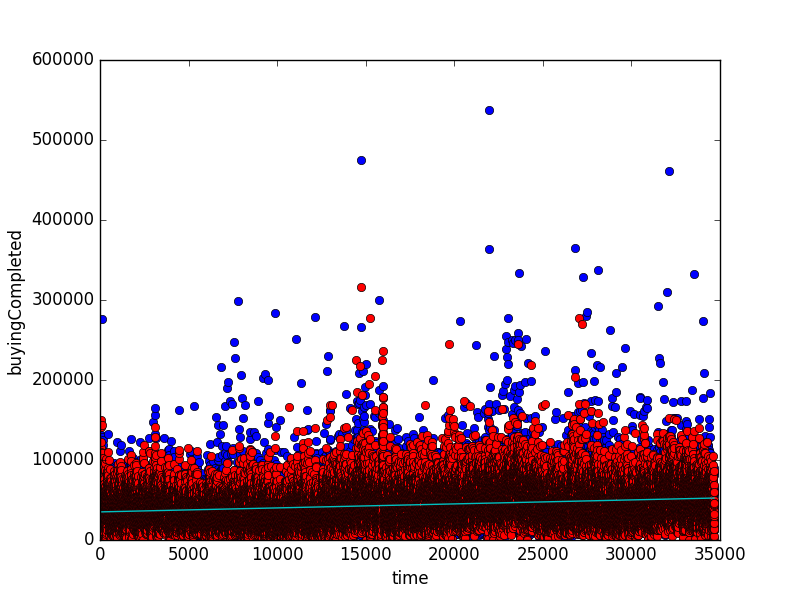
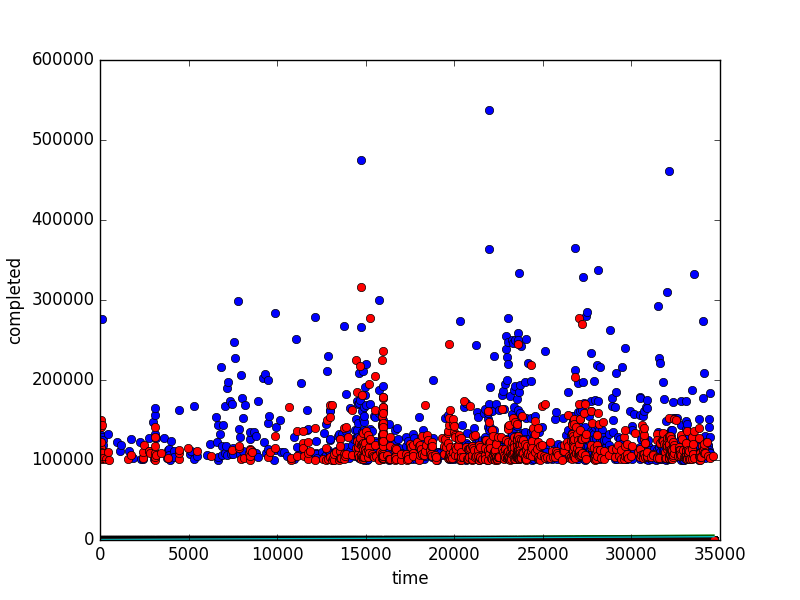
Remodel the buy and sell plot

Changed region(s): [[0.125, 0.75, 0.9062, 0.9], [0.0, 0.39, 0.0312, 0.63]]

diff --git a/ors.py b/ors.py
@@ -37,7 +37,7 @@ def GetItemList (ls, param):
     itemLs = []
 
     for item in ls:
-        if param in item:
+        if param in item and item[param] > 100000:
             itemLs.append(item[param])
         else:
             itemLs.append(0)
@@ -118,7 +118,7 @@ def PlotData (ls):
         line = slope * xi + intercept
         pylab.plot(xi, itemLs, 'o', xi, line)
         pylab.xlabel('time')
-        pylab.ylabel(param)
+        pylab.ylabel('completed')
         #pylab.savefig(param+'.png')
         print(slope,'|',intercept,'|',r_value,'|',p_value,'|',stderr)
         #matplotlib.pyplot.close()
